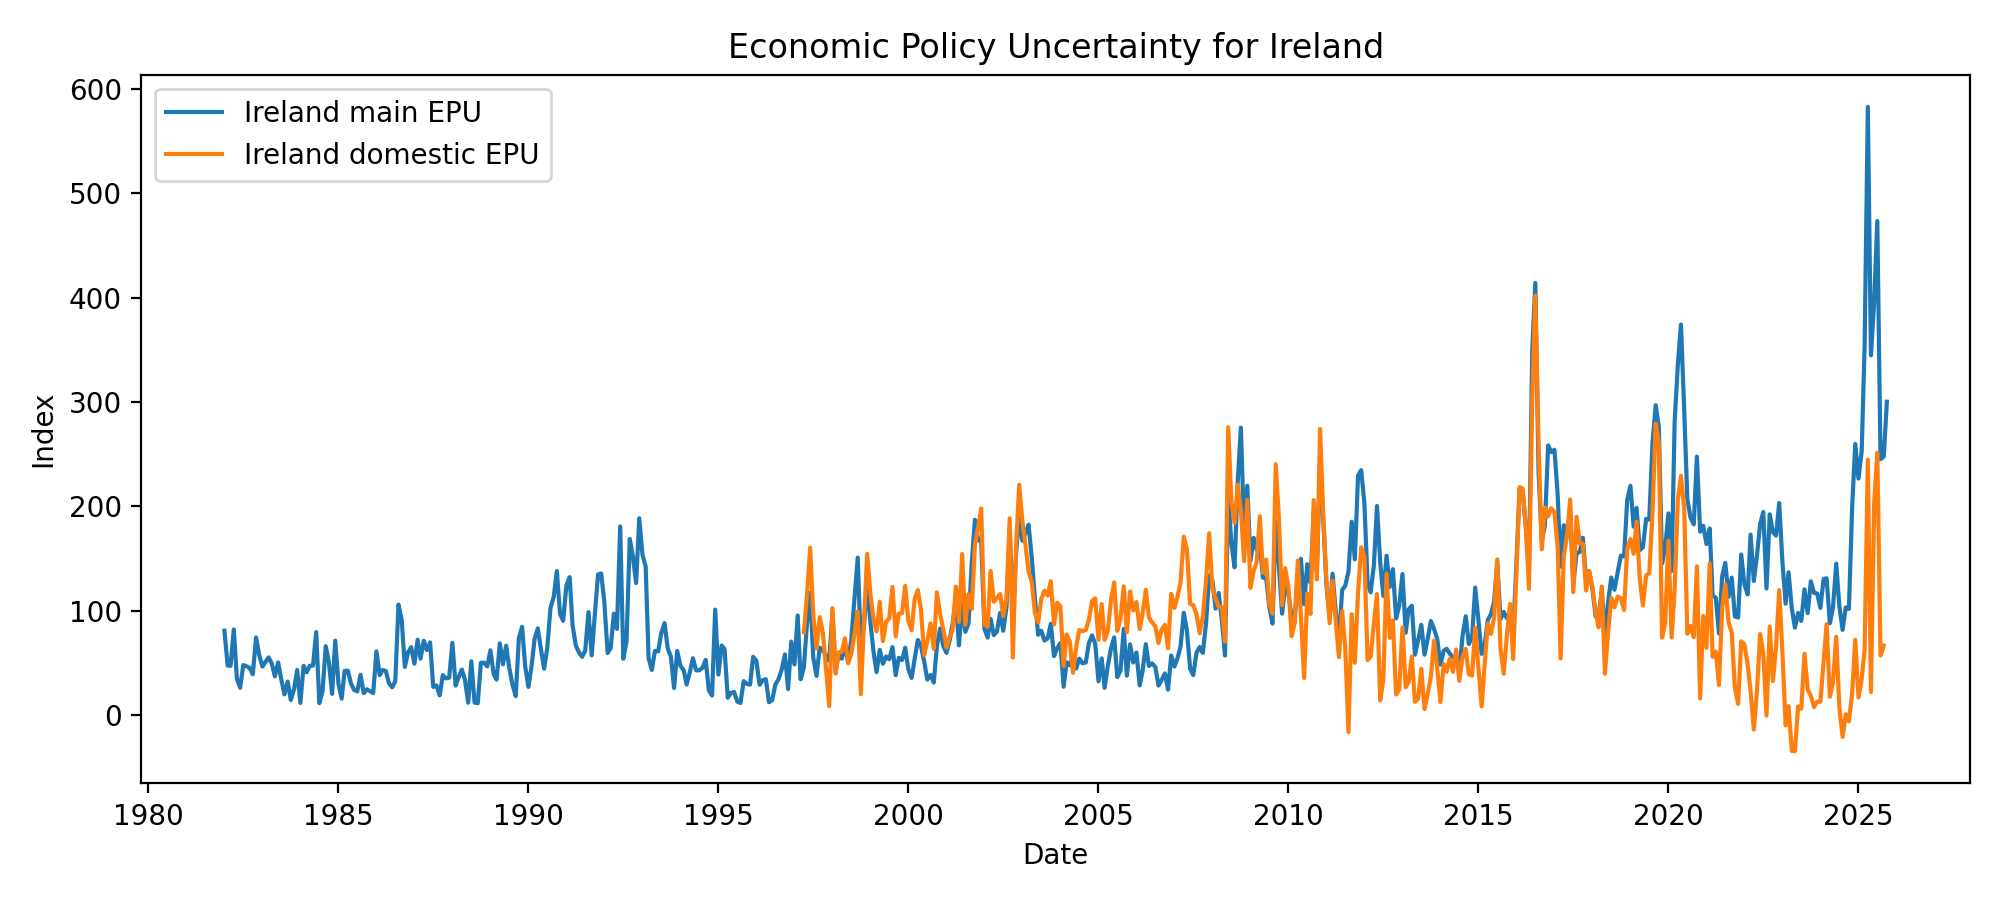
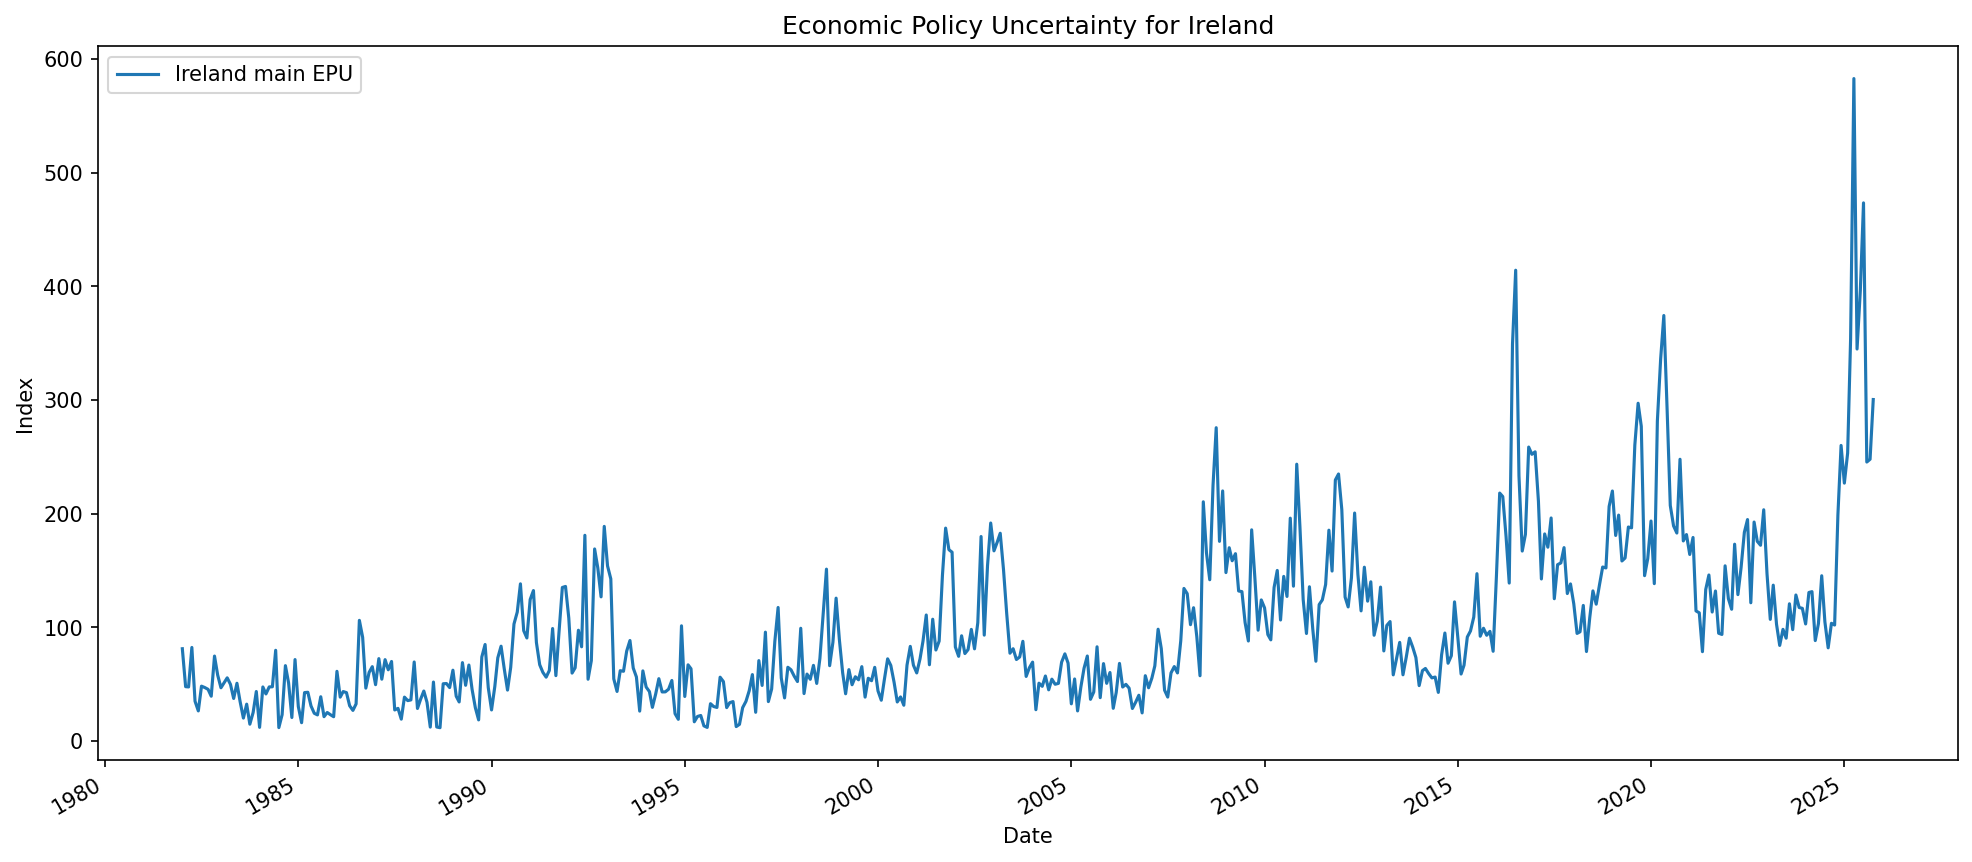
ch

diff --git a/docs/data.html b/docs/data.html
@@ -167,7 +167,7 @@ ul.task-list li input[type="checkbox"] {
 <p>The series are hosted externally by the Economic Policy Uncertainty project and are mirrored here for convenience.</p>
 <section id="download" class="level3">
 <h3 class="anchored" data-anchor-id="download">Download</h3>
-<p><a href="files/Ireland_Policy_Uncertainty_Data_Rice.xlsx">Download the Ireland Economic Policy Uncertainty dataset (Excel)</a></p>
+<p><a href="files/ireland-epu-index.xlsx">Download the Ireland Economic Policy Uncertainty dataset (Excel)</a></p>
 </section>
 <section id="what-is-in-the-file" class="level3">
 <h3 class="anchored" data-anchor-id="what-is-in-the-file">What is in the file</h3>
@@ -203,7 +203,7 @@ An orthogonal domestic component of Irish EPU, constructed by purging the main s
 </section>
 <section id="suggested-citation" class="level3">
 <h3 class="anchored" data-anchor-id="suggested-citation">Suggested citation</h3>
-<p>If you use these data, please cite the journal article or the working paper above, depending on whether you are referencing the empirical results or the construction details.</p>
+<p>If you use these data, please cite the journal article as follows: Rice, Jonathan (2023). “Economic Policy Uncertainty Shocks in Small Open Economies: A Case Study of Ireland”. The Economic and Social Review, 54(4), 217-245.</p>
 
 
 </section>
